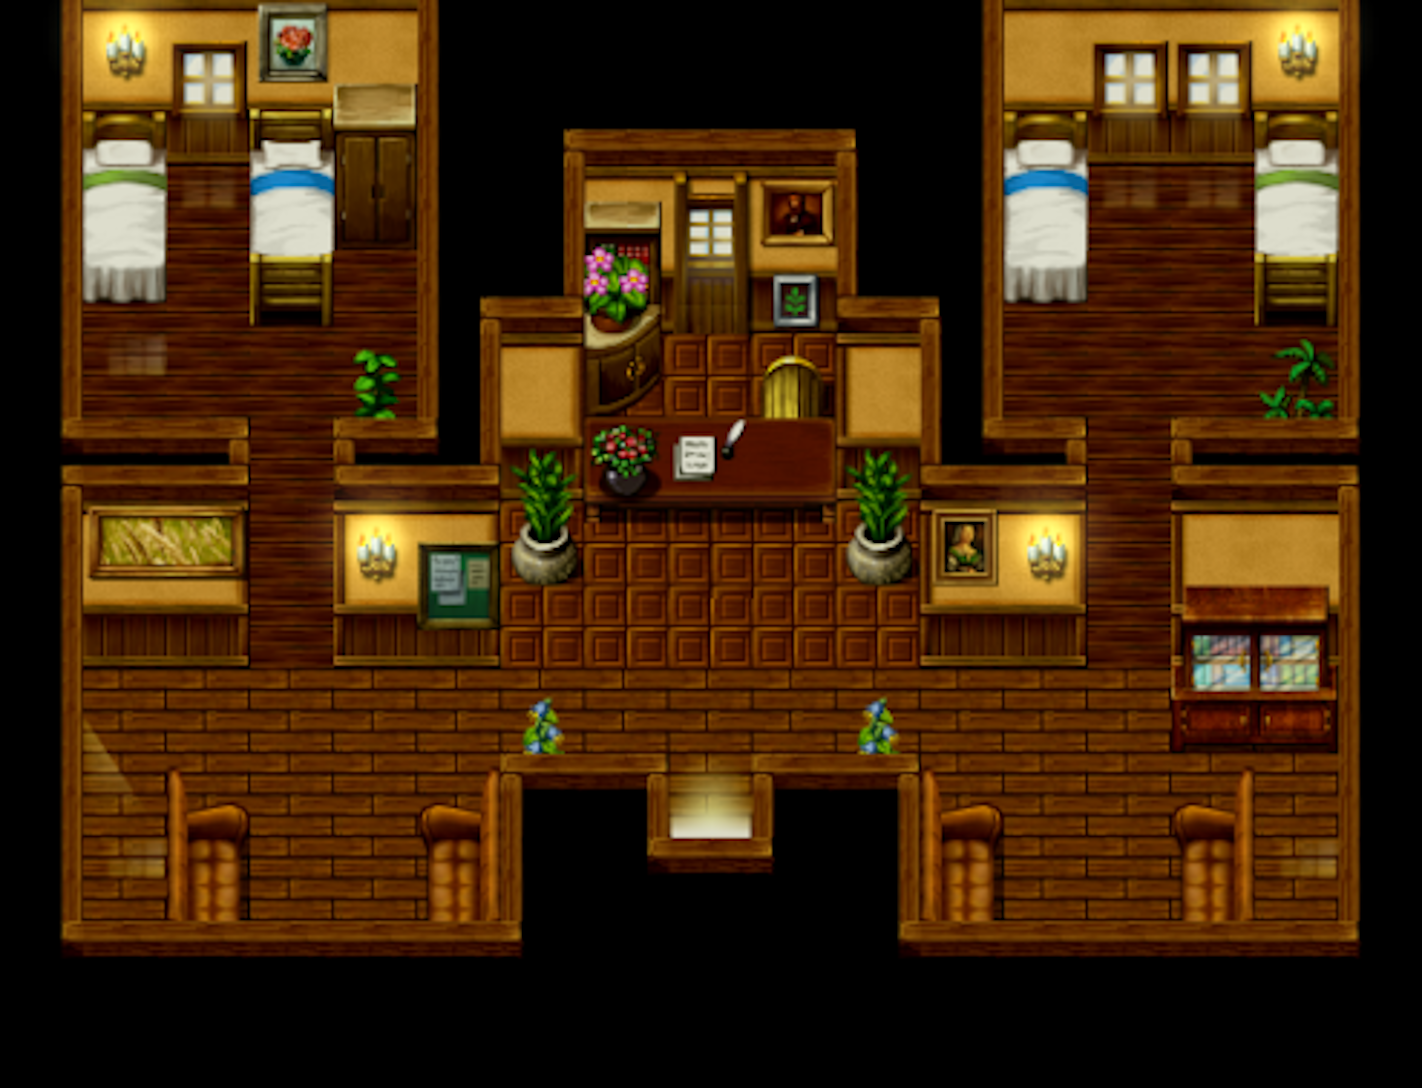
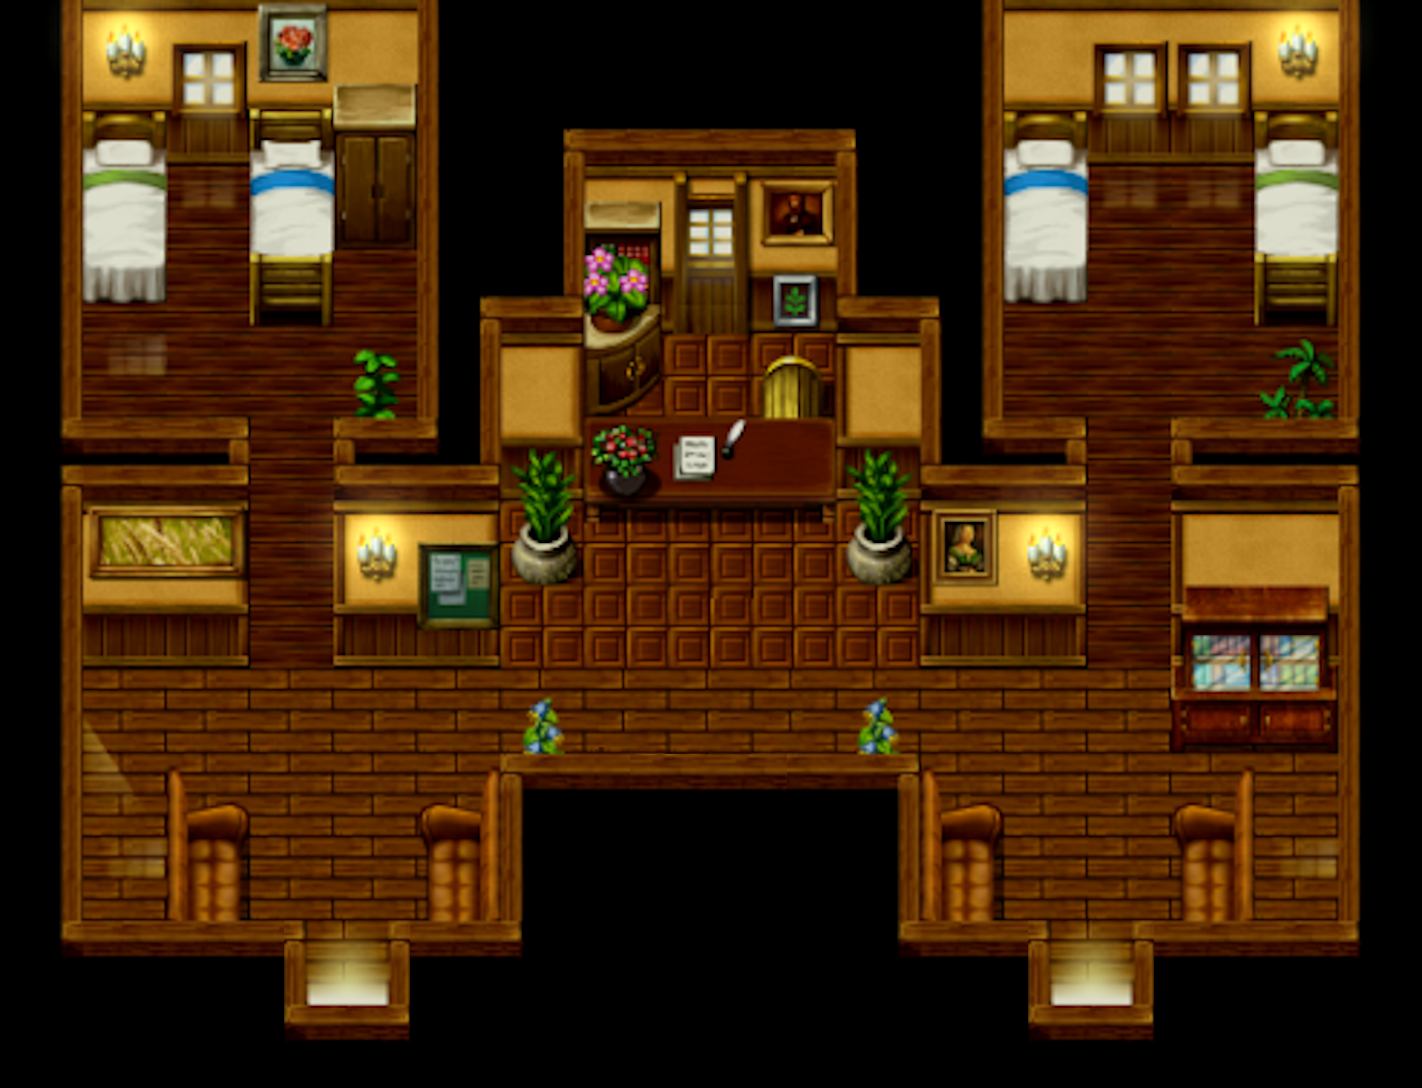
refonte warp

Changed region(s): [[0.4332, 0.6875, 0.557, 0.8125], [0.1857, 0.8438, 0.3094, 0.9688], [0.7117, 0.8438, 0.8354, 0.9688]]

diff --git a/mapgrid.py b/mapgrid.py
@@ -35,7 +35,7 @@ Village_grid =[
 [1, 1, 1, 1, 1, 1, 1, 0, 0, 0, 0, 0, 0, 0, 0, 0, 0, 0, 0, 0, 0, 0, 0, 0, 0, 0, 0, 0, 0, 0, 0, 0, 0, 0, 0, 0, 0, 0, 0, 0, 0, 0, 0, 0, 0, 1, 1, 1, 1, 1, 1, 1, 1, 1, 1, 1, 0, 0, 1, 0, 0, 0, 0, 0, 0, 1],
 [1, 1, 1, 1, 1, 1, 1, 0, 0, 0, 0, 0, 0, 0, 0, 0, 0, 0, 0, 0, 0, 0, 0, 0, 0, 1, 0, 0, 0, 0, 0, 0, 0, 0, 0, 0, 0, 1, 1, 1, 1, 1, 1, 1, 0, 1, 1, 1, 1, 1, 1, 1, 1, 1, 1, 1, 0, 0, 1, 0, 0, 0, 0, 1, 1, 1],
 [1, 1, 1, 1, 1, 1, 1, 1, 1, 1, 0, 0, 0, 0, 0, 0, 0, 0, 0, 1, 0, 0, 0, 0, 0, 0, 0, 1, 1, 1, 1, 1, 0, 0, 0, 0, 0, 1, 1, 1, 1, 1, 1, 1, 1, 1, 1, 1, 1, 1, 1, 1, 1, 1, 1, 1, 0, 0, 1, 0, 0, 0, 1, 1, 1, 1],
-[1, 1, 1, 1, 1, 1, 1, 1, 1, 1, 1, 1, 0, 0, 0, 0, 0, 0, 1, 1, 0, 0, 0, 0, 0, 0, 0, 1, 1, 1, 1, 1, 0, 0, 0, 0, 0, 1, 1, 1, 1, 1, 1, 1, 1, 1, 1, 1, 1, 1, 1, 1, 1, 1, 1, 1, 0, 0, 1, 0, 0, 1, 1, 1, 1, 1],
+[1, 1, 1, 1, 1, 1, 1, 1, 1, 1, 1, 1, 0, 0, 0, 0, 0, 0, 1, 1, 0, 0, 0, 0, 0, 0, 0, 1, 1, 1, 1, 1, 0, 0, 0, 0, 0, 1, 1, 1, 1, 1, 1, 1, 1, 1, 1, 2305141, 1, 1, 1, 1, 2316141, 1, 1, 1, 0, 0, 1, 0, 0, 1, 1, 1, 1, 1],
 [1, 1, 1, 1, 1, 1, 1, 1, 0, 0, 1, 1, 1, 1, 2231231, 1, 1, 1, 1, 1, 0, 0, 0, 0, 0, 0, 0, 0, 1, 1, 1, 0, 0, 0, 0, 0, 0, 0, 0, 0, 0, 0, 0, 0, 0, 0, 0, 0, 0, 0, 0, 0, 0, 0, 0, 0, 0, 0, 0, 0, 0, 1, 1, 1, 1, 1],
 [1, 1, 1, 1, 1, 1, 1, 1, 1, 0, 0, 0, 1, 1, 0, 0, 1, 1, 0, 0, 0, 0, 0, 0, 0, 0, 0, 0, 0, 0, 0, 0, 0, 0, 0, 0, 0, 0, 0, 0, 0, 0, 0, 0, 0, 0, 0, 0, 0, 0, 0, 0, 0, 0, 0, 0, 0, 0, 0, 0, 0, 1, 1, 1, 1, 1],
 [1, 1, 1, 1, 1, 5, 0, 0, 0, 0, 0, 0, 0, 0, 0, 0, 0, 0, 0, 0, 0, 0, 0, 0, 0, 0, 0, 0, 0, 0, 0, 0, 0, 0, 0, 0, 0, 1, 0, 0, 0, 0, 0, 0, 0, 0, 0, 0, 0, 0, 0, 0, 0, 0, 0, 0, 0, 0, 1, 1, 1, 1, 1, 1, 1, 1],
@@ -52,22 +52,25 @@ Village_grid =[
 [1, 1, 1, 1, 0, 0, 0, 0, 0, 0, 0, 0, 0, 0, 0, 0, 0, 0, 0, 0, 0, 0, 0, 0, 0, 0, 0, 0, 0, 0, 0, 0, 0, 0, 0, 1, 0, 0, 0, 0, 0, 0, 0, 0, 0, 1, 0, 0, 0, 0, 0, 0, 0, 0, 0, 0, 0, 0, 0, 0, 0, 0, 1, 1, 1, 1],
 [1, 1, 1, 1, 0, 0, 0, 0, 0, 0, 0, 0, 0, 0, 0, 0, 0, 0, 0, 0, 0, 0, 0, 0, 0, 0, 0, 0, 0, 0, 0, 0, 0, 0, 0, 1, 0, 0, 0, 0, 0, 0, 0, 0, 0, 1, 0, 0, 0, 0, 0, 0, 0, 0, 0, 0, 0, 0, 0, 0, 0, 0, 1, 1, 1, 1],
 [1, 1, 1, 1, 1, 0, 0, 0, 0, 0, 1, 1, 1, 1, 1, 0, 0, 0, 1, 1, 1, 1, 0, 0, 0, 0, 0, 0, 0, 0, 0, 0, 0, 0, 0, 1, 0, 0, 0, 0, 0, 0, 0, 0, 0, 1, 0, 0, 0, 0, 1, 1, 0, 0, 1, 0, 0, 0, 0, 0, 0, 0, 1, 1, 1, 1],
- [1, 1, 1, 1, 1, 0, 0, 0, 0, 0, 1, 0, 0, 0, 0, 0, 0, 0, 0, 0, 0, 1, 0, 0, 0, 0, 0, 0, 0, 0, 0, 0, 0, 0, 0, 0, 0, 0, 0, 0, 0, 1, 1, 1, 1, 1, 0, 0, 0, 0, 1, 1, 0, 0, 1, 0, 0, 0, 0, 0, 0, 0, 1, 1, 1, 1],
- [1, 1, 1, 1, 0, 0, 0, 0, 0, 0, 1, 0, 0, 0, 0, 0, 0, 0, 0, 0, 0, 1, 0, 0, 0, 0, 0, 0, 0, 0, 0, 0, 0, 0, 0, 0, 0, 0, 0, 0, 0, 0, 0, 0, 0, 0, 0, 0, 0, 0, 0, 0, 0, 0, 0, 0, 0, 0, 0, 0, 0, 0, 1, 1, 1, 1],
+[1, 1, 1, 1, 1, 0, 0, 0, 0, 0, 1, 0, 0, 0, 0, 0, 0, 0, 0, 0, 0, 1, 0, 0, 0, 0, 0, 0, 0, 0, 0, 0, 0, 0, 0, 0, 0, 0, 0, 0, 0, 1, 1, 1, 1, 1, 0, 0, 0, 0, 1, 1, 0, 0, 1, 0, 0, 0, 0, 0, 0, 0, 1, 1, 1, 1],
 [1, 1, 1, 1, 0, 0, 0, 0, 0, 0, 1, 0, 0, 0, 0, 0, 0, 0, 0, 0, 0, 1, 0, 0, 0, 0, 0, 0, 0, 0, 0, 0, 0, 0, 0, 0, 0, 0, 0, 0, 0, 0, 0, 0, 0, 0, 0, 0, 0, 0, 0, 0, 0, 0, 0, 0, 0, 0, 0, 0, 0, 0, 1, 1, 1, 1],
-[1, 1, 1, 1, 0, 0, 0, 0, 0, 0, 1, 0, 0, 0, 0, 0, 0, 0, 0, 0, 0, 1, 0, 0, 0, 1, 0, 0, 0, 0, 0, 0, 0, 0, 0, 0, 1, 1, 1, 0, 0, 0, 0, 1, 0, 0, 0, 0, 0, 0, 0, 0, 0, 0, 1, 0, 0, 0, 0, 0, 0, 0, 1, 1, 1, 1],
-[1, 1, 1, 1, 1, 1, 0, 0, 0, 0, 1, 0, 0, 0, 0, 0, 0, 0, 0, 0, 0, 1, 0, 0, 0, 1, 0, 0, 0, 0, 0, 0, 0, 0, 0, 0, 0, 0, 1, 0, 0, 0, 0, 0, 0, 0, 1, 0, 0, 0, 0, 0, 0, 0, 1, 0, 0, 0, 0, 0, 0, 0, 1, 1, 1, 1],
+[1, 1, 1, 1, 0, 0, 0, 0, 0, 0, 1, 0, 0, 0, 0, 0, 0, 0, 0, 0, 0, 1, 0, 0, 0, 0, 0, 0, 0, 0, 0, 0, 0, 0, 0, 0, 0, 0, 0, 0, 0, 0, 0, 0, 0, 0, 0, 0, 0, 0, 0, 0, 0, 0, 0, 0, 0, 0, 0, 0, 0, 0, 1, 1, 1, 1],
+[1, 1, 1, 1, 0, 0, 0, 0, 0, 0, 1, 0, 0, 0, 0, 0, 0, 0, 0, 0, 0, 1, 0, 0, 0, 1, 0, 0, 0, 0, 0, 0, 0, 0, 0, 0, 1, 1, 1, 0, 0, 0, 0, 1, 1, 1, 1, 1, 1, 1, 1, 1, 1, 1, 1, 0, 0, 0, 0, 0, 0, 0, 1, 1, 1, 1],
+[1, 1, 1, 1, 1, 1, 0, 0, 0, 0, 1, 0, 0, 0, 0, 0, 0, 0, 0, 0, 0, 1, 0, 0, 0, 1, 0, 0, 0, 0, 0, 0, 0, 0, 0, 0, 0, 0, 1, 0, 0, 0, 0, 0, 0, 0, 0, 0, 0, 0, 0, 0, 0, 0, 1, 0, 0, 0, 0, 0, 0, 0, 1, 1, 1, 1],
 [1, 1, 1, 1, 0, 0, 0, 0, 0, 0, 1, 0, 0, 0, 0, 0, 0, 0, 0, 0, 0, 1, 0, 0, 0, 1, 0, 1, 1, 1, 1, 1, 1, 1, 0, 0, 1, 0, 1, 0, 0, 0, 0, 0, 0, 0, 1, 1, 1, 1, 1, 1, 1, 0, 1, 0, 0, 0, 0, 0, 0, 0, 1, 1, 1, 1],
 [1, 1, 1, 1, 0, 0, 0, 0, 0, 0, 1, 0, 0, 0, 0, 0, 0, 0, 0, 0, 0, 1, 0, 0, 0, 1, 0, 1, 1, 1, 1, 1, 1, 1, 1, 1, 1, 0, 1, 0, 0, 0, 0, 0, 0, 0, 1, 1, 1, 1, 1, 1, 1, 0, 1, 0, 0, 0, 0, 0, 0, 0, 1, 1, 1, 1],
-[1, 1, 1, 1, 0, 0, 0, 0, 0, 0, 1, 0, 0, 0, 0, 0, 0, 0, 0, 0, 0, 1, 0, 0, 0, 1, 0, 1, 1, 1, 1, 1, 1, 1, 1, 1, 1, 0, 1, 0, 0, 0, 0, 0, 0, 0, 1, 1, 1, 1, 1, 1, 1, 0, 1, 0, 0, 0, 0, 0, 0, 0, 1, 1, 1, 1],
-[1, 1, 1, 1, 1, 0, 0, 0, 0, 0, 1, 1, 1, 1, 0, 0, 0, 0, 1, 1, 1, 1, 0, 0, 0, 1, 0, 1, 1, 1, 2415101, 1, 1, 1, 1, 1, 1, 0, 1, 0, 0, 0, 0, 0, 0, 0, 1, 0, 0, 0, 0, 0, 0, 0, 1, 0, 0, 0, 0, 0, 0, 0, 0, 1, 1, 1],
-[1, 1, 1, 1, 1, 1, 0, 0, 0, 0, 0, 0, 0, 0, 0, 0, 0, 0, 0, 0, 0, 0, 0, 0, 0, 1, 0, 0, 0, 0, 0, 0, 0, 0, 0, 0, 0, 0, 1, 0, 0, 0, 0, 0, 0, 0, 0, 0, 0, 0, 0, 0, 0, 0, 1, 0, 0, 0, 0, 0, 0, 0, 0, 1, 1, 1],
+[1, 1, 1, 1, 0, 0, 0, 0, 0, 0, 1, 0, 0, 0, 0, 0, 0, 0, 0, 0, 0, 1, 0, 0, 0, 1, 0, 1, 1, 1, 1, 1, 1, 1, 1, 1, 1, 0, 1, 0, 0, 0, 0, 0, 0, 0, 1, 1, 2507111, 1, 1, 1, 1, 0, 1, 0, 0, 0, 0, 0, 0, 0, 1, 1, 1, 1],
+[1, 1, 1, 1, 1, 0, 0, 0, 0, 0, 1, 1, 1, 1, 0, 0, 0, 0, 1, 1, 1, 1, 0, 0, 0, 1, 0, 1, 1, 1, 2415101, 1, 1, 1, 1, 1, 1, 0, 1, 0, 0, 0, 0, 0, 0, 0, 0, 0, 0, 0, 0, 0, 0, 0, 1, 0, 0, 0, 0, 0, 0, 0, 0, 1, 1, 1],
+[1, 1, 1, 1, 1, 1, 0, 0, 0, 0, 0, 0, 0, 0, 0, 0, 0, 0, 0, 0, 0, 0, 0, 0, 0, 1, 0, 0, 0, 0, 0, 0, 0, 0, 0, 0, 0, 0, 1, 0, 0, 0, 0, 1, 1, 1, 1, 1, 0, 0, 0, 1, 1, 1, 1, 0, 0, 0, 0, 0, 0, 0, 0, 1, 1, 1],
 [1, 1, 1, 1, 0, 0, 0, 0, 0, 0, 0, 0, 0, 0, 0, 0, 0, 0, 0, 0, 0, 0, 0, 0, 0, 1, 1, 1, 0, 0, 0, 0, 0, 0, 0, 0, 0, 0, 1, 0, 0, 0, 0, 0, 0, 0, 0, 0, 0, 0, 0, 0, 0, 0, 0, 0, 0, 0, 0, 0, 0, 0, 0, 1, 1, 1],
 [1, 1, 1, 1, 0, 0, 0, 0, 0, 0, 0, 0, 0, 0, 0, 0, 0, 0, 0, 0, 0, 0, 0, 0, 0, 0, 0, 0, 0, 0, 0, 0, 0, 0, 0, 0, 0, 0, 0, 0, 0, 0, 0, 0, 0, 0, 0, 0, 0, 0, 0, 0, 0, 0, 0, 0, 0, 0, 0, 0, 0, 0, 0, 1, 1, 1],
 [1, 1, 1, 1, 0, 0, 0, 0, 0, 0, 0, 0, 0, 0, 0, 0, 0, 0, 0, 0, 0, 0, 0, 0, 0, 0, 0, 0, 0, 0, 0, 0, 0, 0, 0, 0, 0, 0, 0, 0, 0, 0, 0, 0, 0, 0, 0, 0, 0, 0, 0, 0, 0, 0, 0, 0, 0, 0, 0, 0, 0, 0, 0, 1, 1, 1],
 [1, 1, 1, 1, 1, 1, 1, 1, 1, 1, 1, 1, 1, 1, 1, 1, 1, 1, 1, 1, 1, 1, 1, 1, 1, 1, 1, 1, 1, 1, 1, 1, 1, 1, 1, 1, 1, 1, 1, 1, 1, 1, 1, 1, 1, 1, 1, 1, 1, 1, 1, 1, 1, 1, 1, 1, 1, 1, 1, 1, 1, 1, 1, 1, 1, 1],
 [1, 1, 1, 1, 1, 1, 1, 1, 1, 1, 1, 1, 1, 1, 1, 1, 1, 1, 1, 1, 1, 1, 1, 1, 1, 1, 1, 1, 1, 1, 1, 1, 1, 1, 1, 1, 1, 1, 1, 1, 1, 1, 1, 1, 1, 1, 1, 1, 1, 1, 1, 1, 1, 1, 1, 1, 1, 1, 1, 1, 1, 1, 1, 1, 1, 1]
 ]
+
+
+
 
 
 
@@ -112,10 +115,10 @@ Auberge_grid = [
 [1, 1, 1, 1, 0, 1, 1, 1, 0, 0, 0, 0, 0, 0, 1, 1, 1, 0, 1, 1, 1, 1],
 [1, 0, 0, 0, 0, 0, 0, 0, 0, 0, 0, 0, 0, 0, 0, 0, 0, 0, 1, 1, 1, 1],
 [1, 0, 0, 0, 0, 0, 0, 0, 0, 0, 0, 0, 0, 0, 0, 0, 0, 0, 0, 0, 0, 1],
-[1, 0, 1, 0, 0, 0, 0, 1, 1, 1, 2, 0, 1, 1, 1, 0, 0, 0, 0, 0, 0, 1],
 [1, 0, 1, 0, 0, 0, 0, 1, 1, 1, 1, 1, 1, 1, 1, 0, 0, 0, 0, 0, 0, 1],
-[1, 1, 1, 1, 1, 1, 1, 1, 1, 1, 1, 1, 1, 1, 1, 1, 1, 1, 1, 1, 1, 1],
-[1, 1, 1, 1, 1, 1, 1, 1, 1, 1, 1, 1, 1, 1, 1, 1, 1, 1, 1, 1, 1, 1],
+[1, 0, 1, 0, 0, 0, 0, 1, 1, 1, 1, 1, 1, 1, 1, 0, 0, 0, 0, 0, 0, 1],
+[1, 1, 1, 1, 1, 0, 1, 1, 1, 1, 1, 1, 1, 1, 1, 1, 0, 0, 1, 1, 1, 1],
+[1, 1, 1, 1, 1, 2153083, 1, 1, 1, 1, 1, 1, 1, 1, 1, 1, 2153083, 1, 1, 1, 1, 1],
 [1, 1, 1, 1, 1, 1, 1, 1, 1, 1, 1, 1, 1, 1, 1, 1, 1, 1, 1, 1, 1, 1]
 ]
 
@@ -134,22 +137,6 @@ Armurerie_grid = [
 [1, 1, 1, 1, 1, 1, 1, 1, 1, 1, 1, 1, 1, 1, 1, 2131343, 1, 1, 1, 1, 1, 1, 1]
 ]
 
-Witch_grid = [
-[1, 1, 1, 1, 1, 1, 1, 1, 1, 1, 1, 1, 1, 1, 1, 1, 1],
-[1, 1, 1, 1, 1, 1, 1, 1, 1, 1, 1, 1, 1, 1, 1, 1, 1],
-[1, 1, 1, 1, 1, 1, 1, 1, 0, 0, 1, 1, 1, 1, 1, 1, 1],
-[1, 0, 0, 0, 0, 1, 0, 0, 0, 0, 0, 0, 0, 0, 0, 1, 1],
-[1, 0, 0, 0, 0, 0, 0, 0, 0, 0, 0, 0, 0, 0, 0, 1, 1],
-[1, 1, 1, 1, 1, 1, 1, 0, 1, 1, 1, 0, 1, 0, 0, 1, 1],
-[1, 1, 1, 1, 1, 1, 1, 1, 1, 1, 1, 1, 1, 0, 0, 1, 1],
-[1, 1, 1, 1, 1, 1, 1, 1, 1, 1, 1, 1, 1, 0, 0, 1, 1],
-[1, 0, 0, 0, 0, 0, 1, 1, 1, 1, 1, 1, 0, 0, 0, 1, 1],
-[1, 0, 1, 1, 0, 0, 0, 0, 0, 0, 0, 0, 0, 0, 0, 0, 1],
-[1, 0, 0, 0, 0, 0, 0, 0, 0, 0, 0, 0, 0, 0, 0, 0, 1],
-[1, 1, 0, 0, 1, 1, 1, 1, 0, 0, 0, 0, 0, 0, 0, 1, 1],
-[1, 1, 1, 1, 1, 1, 1, 1, 1, 1, 1, 2, 1, 1, 1, 1, 1]
-]
-
 
 Boutique_grid = [
 [1, 1, 1, 1, 1, 1, 1, 1, 1, 1, 1, 1, 1, 1, 1, 1, 1, 1, 1, 1],
@@ -163,8 +150,8 @@ Boutique_grid = [
 [1, 1, 1, 1, 1, 1, 1, 1, 1, 0, 0, 0, 0, 0, 0, 0, 0, 0, 1, 1],
 [1, 1, 0, 0, 0, 0, 0, 0, 0, 0, 0, 0, 1, 0, 0, 0, 0, 0, 1, 1],
 [1, 1, 0, 0, 0, 0, 0, 0, 0, 0, 0, 0, 1, 1, 0, 1, 1, 1, 1, 1],
-[1, 1, 0, 0, 0, 0, 2, 0, 0, 0, 0, 0, 1, 1, 1, 1, 1, 1, 1, 1],
-[1, 1, 1, 1, 1, 1, 1, 1, 1, 1, 1, 1, 1, 1, 1, 1, 1, 1, 1, 1],
+[1, 1, 0, 0, 0, 0, 0, 0, 0, 0, 0, 0, 1, 1, 1, 1, 1, 1, 1, 1],
+[1, 1, 1, 1, 1, 1, 2149323, 1, 1, 1, 1, 1, 1, 1, 1, 1, 1, 1, 1, 1],
 [1, 1, 1, 1, 1, 1, 1, 1, 1, 1, 1, 1, 1, 1, 1, 1, 1, 1, 1, 1],
 [1, 1, 1, 1, 1, 1, 1, 1, 1, 1, 1, 1, 1, 1, 1, 1, 1, 1, 1, 1]
 ]

diff --git a/Map.py b/Map.py
@@ -24,8 +24,6 @@ Armurerie_front = Map(imgArmurerieFront, fenetre)
 Boutique_bg = Map(imgBoutiqueBg, fenetre)
 Boutique_front = Map(imgBoutiqueFront, fenetre)
 
-Witch_bg = Map(imgWitchBg, fenetre)
-Witch_front = Map(imgWitchFront, fenetre)
 
 Maps = [
 [Home_bg,Home_front,Home_grid,(1280,1088)],
@@ -34,6 +32,6 @@ Maps = [
 [Auberge_bg,Auberge_front,Auberge_grid,(1422,1088)],
 [Armurerie_bg,Armurerie_front,Armurerie_grid,(1440,768)],
 [Boutique_bg,Boutique_front,Boutique_grid,(1280,960)],
-[Witch_bg,Witch_front,Witch_grid,(1088,832)]
+
 ]
 actual_map = Maps[0]

diff --git a/constantes.py b/constantes.py
@@ -46,6 +46,3 @@ imgArmurerieFront = pygame.image.load("Source/Map/weapon_shop_front.png").conver
 
 imgBoutiqueBg = pygame.image.load("Source/Map/boutique.png").convert_alpha()
 imgBoutiqueFront = pygame.image.load("Source/Map/warp.png").convert_alpha()
-
-imgWitchBg = pygame.image.load("Source/Map/witch_house.jpg").convert_alpha()
-imgWitchFront = pygame.image.load("Source/Map/warp.png").convert_alpha()
